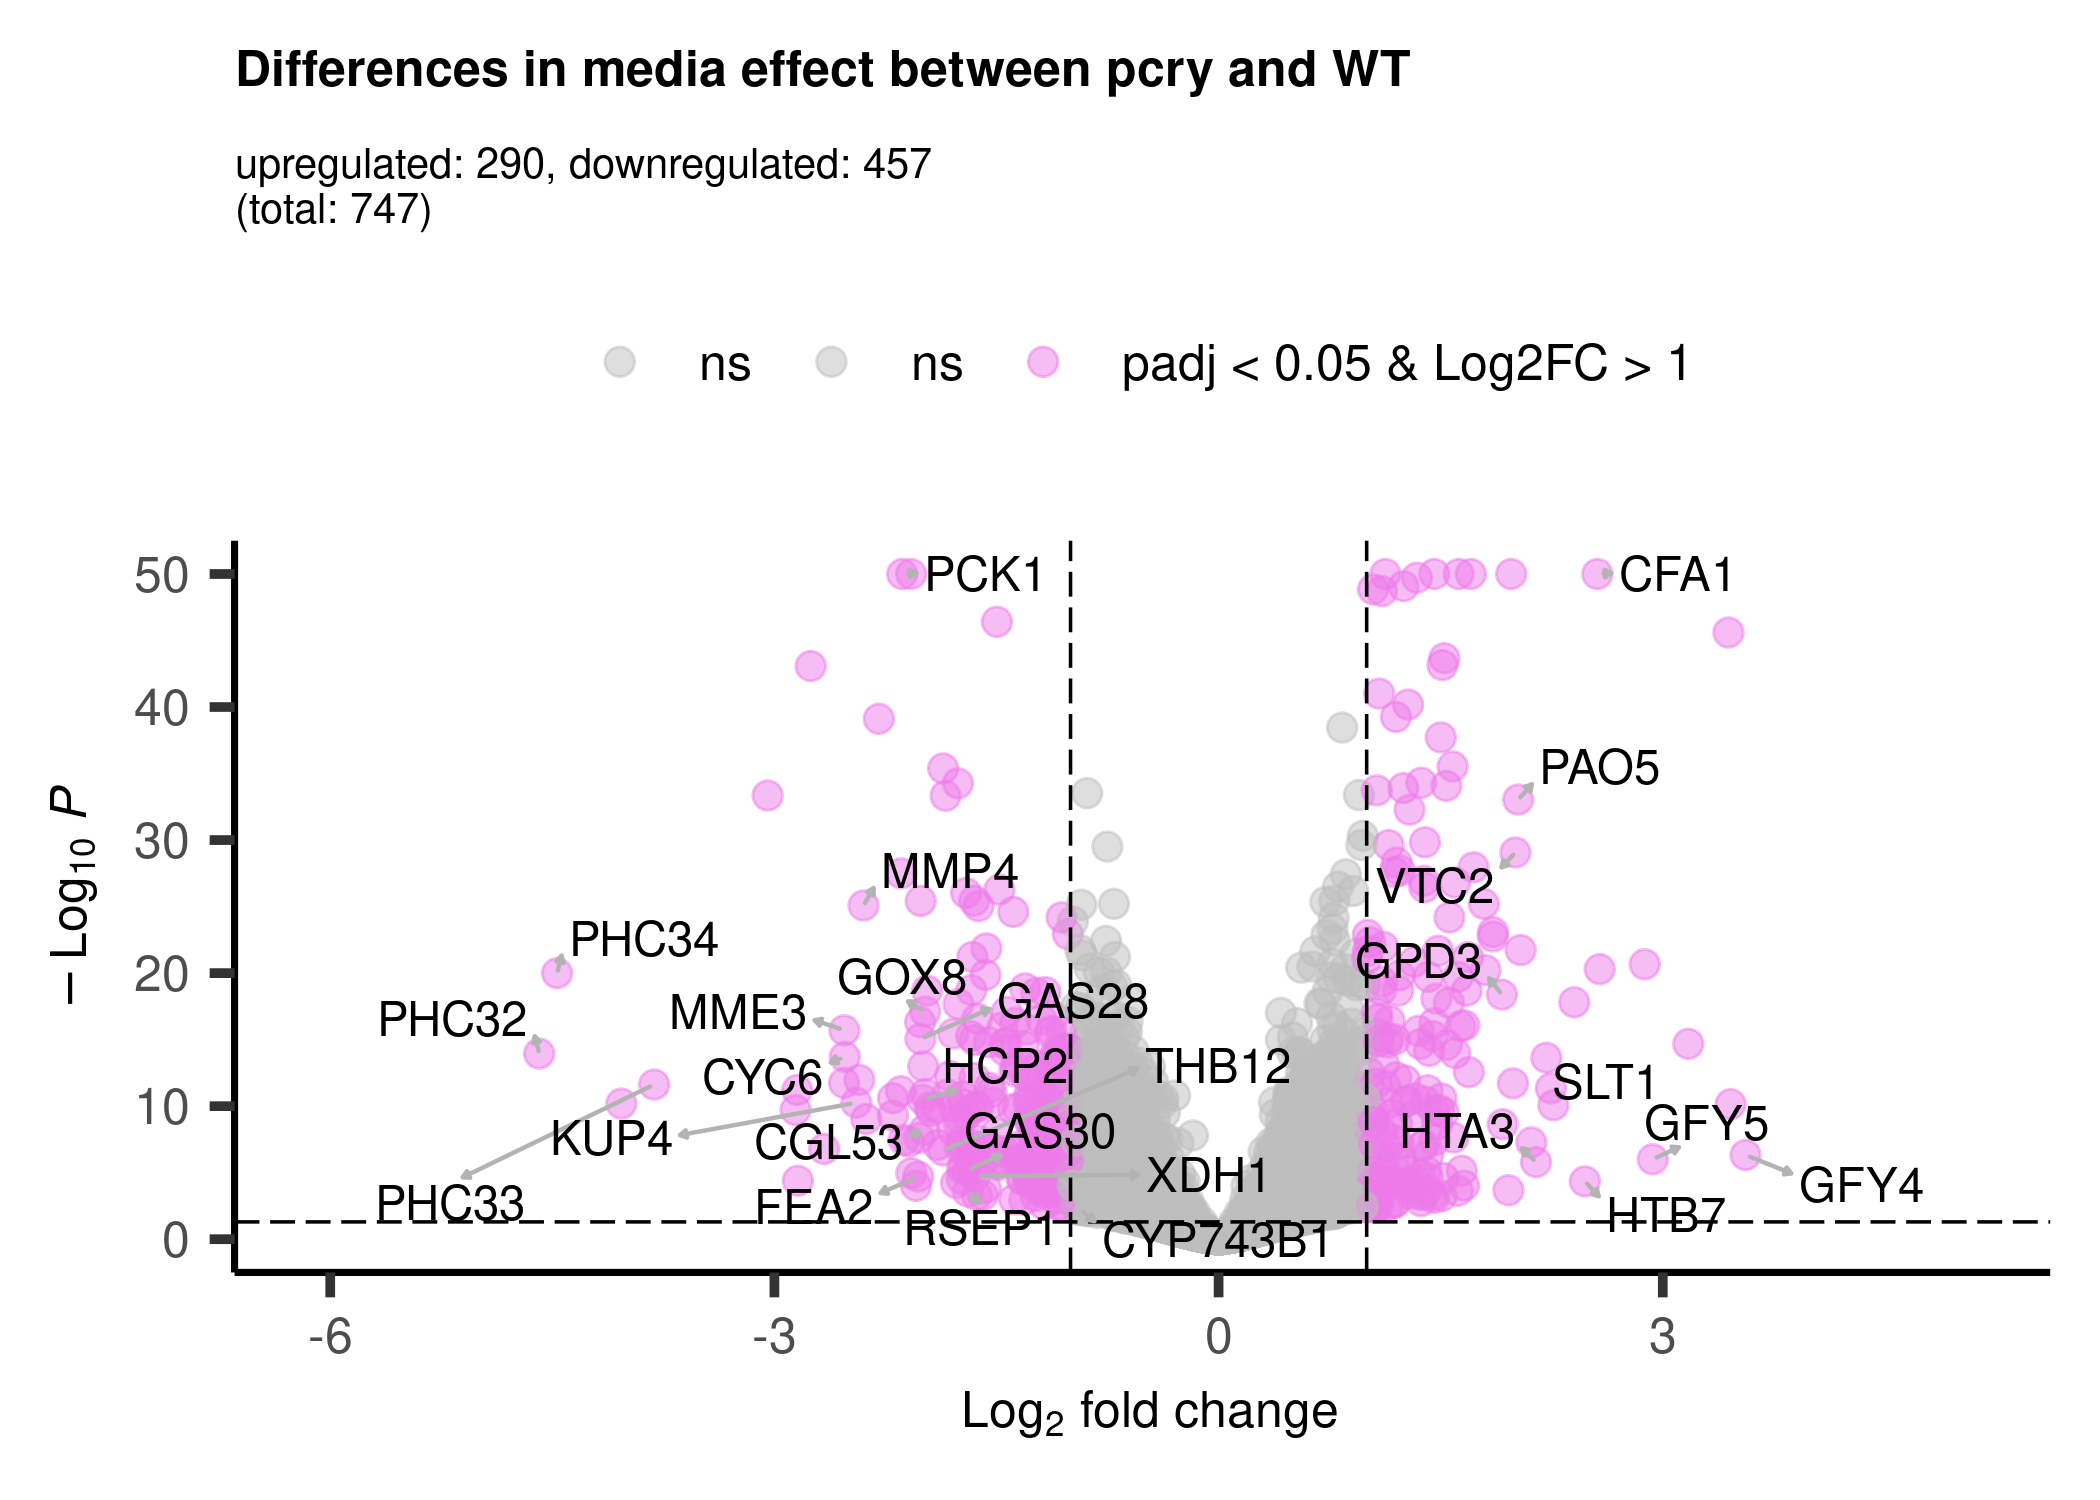
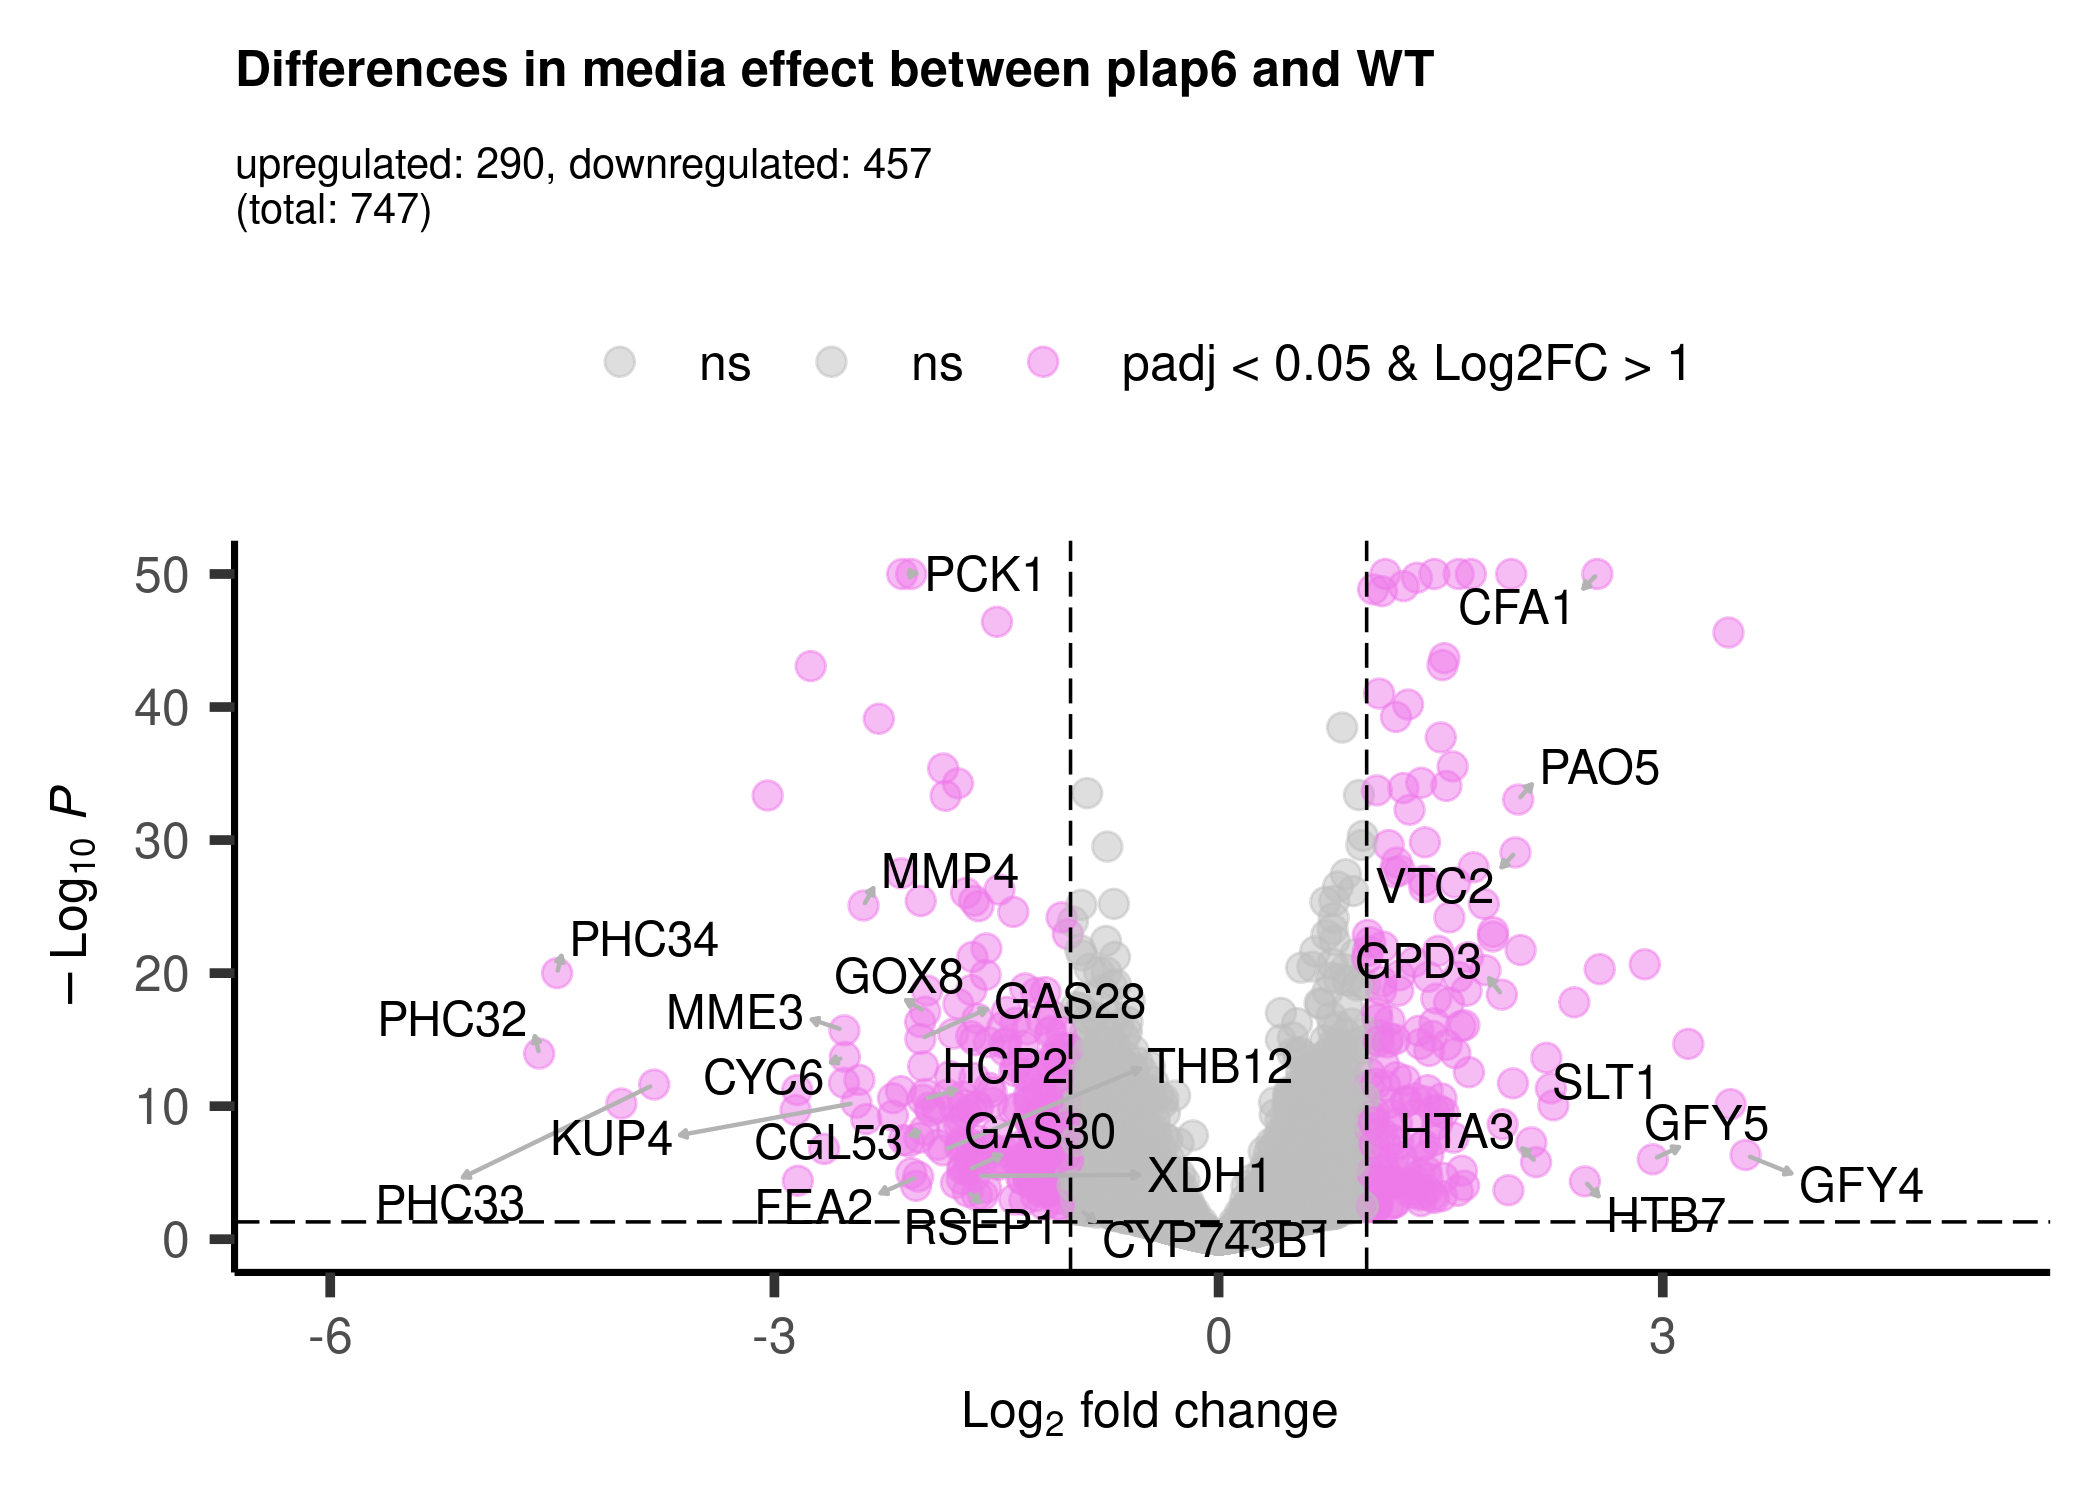
cross plot

diff --git a/2_data_dive/Readme.md b/2_data_dive/Readme.md
@@ -213,23 +213,23 @@
     contrast <- list(c("media_TAP_vs_HSM"))
     res_l[nres] <- getresults_SK(contrast = contrast, nres = nres)
 
-    nres <- "pcry_TAP.vs.HSM"
+    nres <- "plap6_TAP.vs.HSM"
     contrast <- list(c("media_TAP_vs_HSM","strainΔplap6.mediaTAP"))
     res_l[nres] <- getresults_SK(contrast = contrast, nres = nres)
 
 
     # Unterschiede zwischen WT und ko bei gleichem Medium
-    nres <- "HSM_pcry.vs.WT"
+    nres <- "HSM_plap6.vs.WT"
     contrast <- list(c("strain_Δplap6_vs_WT"))
     res_l[nres] <- getresults_SK(contrast = contrast, nres = nres)
 
-    nres <- "TAP_pcry.vs.WT"
+    nres <- "TAP_plap6.vs.WT"
     contrast <- list(c("strain_Δplap6_vs_WT","strainΔplap6.mediaTAP"))
     res_l[nres] <- getresults_SK(contrast = contrast, nres = nres)
 
 
     # Unterschiede im Medien-Effekt (interaction term)
-    nres <- "pcry_TAPvHSM.vs.WT_TAPvHSM"
+    nres <- "plap6_TAPvHSM.vs.WT_TAPvHSM"
     contrast <- list(c("strainΔplap6.mediaTAP"))
     res_l[nres] <- getresults_SK(contrast = contrast, nres = nres)
 
@@ -239,9 +239,9 @@
 
     print(names(res_l))
 
-    ## [1] "WT_TAP.vs.HSM"              "pcry_TAP.vs.HSM"           
-    ## [3] "HSM_pcry.vs.WT"             "TAP_pcry.vs.WT"            
-    ## [5] "pcry_TAPvHSM.vs.WT_TAPvHSM"
+    ## [1] "WT_TAP.vs.HSM"               "plap6_TAP.vs.HSM"           
+    ## [3] "HSM_plap6.vs.WT"             "TAP_plap6.vs.WT"            
+    ## [5] "plap6_TAPvHSM.vs.WT_TAPvHSM"
 
     ## Make deg & top lists:
     deg_list <- lapply(res_l,topgenes_f)
@@ -263,7 +263,7 @@
 
 
 
-    res_l$pcry_TAPvHSM.vs.WT_TAPvHSM["Cre01.g000150",]
+    res_l$plap6_TAPvHSM.vs.WT_TAPvHSM["Cre01.g000150",]
 
     ## log2 fold change (MLE): strainΔplap6.mediaTAP effect 
     ## Wald test p-value: strainΔplap6.mediaTAP effect 
@@ -275,15 +275,15 @@
     ##               <character>
     ## Cre01.g000150        ZRT2
 
-    plotMA(res_l$pcry_TAPvHSM.vs.WT_TAPvHSM, main = "Δplap6 vs. WT in TAP", ylim=c(-4,4))
+    plotMA(res_l$plap6_TAPvHSM.vs.WT_TAPvHSM, main = "Δplap6 vs. WT in TAP", ylim=c(-4,4))
 
 ![](Readme_files/figure-markdown_strict/make%20results2-1.png)
 
-    plotMA(res_ashr_list$pcry_TAPvHSM.vs.WT_TAPvHSM, main = "Δplap6 vs. WT in TAP", ylim=c(-4,4))
+    plotMA(res_ashr_list$plap6_TAPvHSM.vs.WT_TAPvHSM, main = "Δplap6 vs. WT in TAP", ylim=c(-4,4))
 
 ![](Readme_files/figure-markdown_strict/make%20results2-2.png)
 
-    summary(res_l$pcry_TAPvHSM.vs.WT_TAPvHSM)
+    summary(res_l$plap6_TAPvHSM.vs.WT_TAPvHSM)
 
     ## 
     ## out of 14617 with nonzero total read count
@@ -296,11 +296,11 @@
     ## [1] see 'cooksCutoff' argument of ?results
     ## [2] see 'independentFiltering' argument of ?results
 
-    res <- res_l$pcry_TAPvHSM.vs.WT_TAPvHSM
+    res <- res_l$plap6_TAPvHSM.vs.WT_TAPvHSM
 
 # 2.) Data Dive
 
-## Get gen names
+## Get gene names
 
     # Load data
     COQ3 <- "Cre10.g423750"
@@ -2365,7 +2365,7 @@ Hexaprenyldihydroxybenzoate methyltransferase
 
 ![](Readme_files/figure-markdown_strict/countsexamples-1.png)
 
-    g <- anno[str_detect(anno[["geneSymbol"]],"PCRY"),"gene_id"]
+    g <- anno[str_detect(anno[["geneSymbol"]],"PCRY1"),"gene_id"]
     plotCounts(dds, gene = g, intgroup = "condition", col=colData(dds)$genotype, main =anno[g,"geneSymbol"])
 
 ![](Readme_files/figure-markdown_strict/countsexamples-2.png)
@@ -3893,12 +3893,12 @@ TAP
 
     res_ashr_list %>% names()
 
-    ## [1] "WT_TAP.vs.HSM"              "pcry_TAP.vs.HSM"           
-    ## [3] "HSM_pcry.vs.WT"             "TAP_pcry.vs.WT"            
-    ## [5] "pcry_TAPvHSM.vs.WT_TAPvHSM"
+    ## [1] "WT_TAP.vs.HSM"               "plap6_TAP.vs.HSM"           
+    ## [3] "HSM_plap6.vs.WT"             "TAP_plap6.vs.WT"            
+    ## [5] "plap6_TAPvHSM.vs.WT_TAPvHSM"
 
-    res <- res_ashr_list$pcry_TAPvHSM.vs.WT_TAPvHSM
-    res_n <- res_l$pcry_TAPvHSM.vs.WT_TAPvHSM
+    res <- res_ashr_list$plap6_TAPvHSM.vs.WT_TAPvHSM
+    res_n <- res_l$plap6_TAPvHSM.vs.WT_TAPvHSM
 
     # of shrinked results
     total <- subset(res, padj< 0.05 & (log2FoldChange > 1 | log2FoldChange < -1 )) %>% nrow()
@@ -3951,11 +3951,11 @@ TAP
 
     volcano_dd <- EnhancedVolcano(res,
          lab = mcols(dds)[,"geneSymbol"],
-         selectLab = top_list$pcry_TAPvHSM.vs.WT_TAPvHSM[1:101,"symbol"],
+         selectLab = top_list$plap6_TAPvHSM.vs.WT_TAPvHSM[1:101,"symbol"],
         x = 'log2FoldChange',
         y = 'padj',
         col=c("grey","grey","grey","orchid2"),
-        title = "Differences in media effect between pcry and WT",
+        title = "Differences in media effect between plap6 and WT",
         titleLabSize = 12,
         subtitle = paste0("upregulated: ",up,", downregulated: ",down,"\n(total: ",total,")"),
     #    subtitle = {},
@@ -3983,7 +3983,7 @@ TAP
 
 ![](Readme_files/figure-markdown_strict/volcano2-1.png)
 
-    top <- top_list$pcry_TAPvHSM.vs.WT_TAPvHSM[1:101,"symbol"] %>% .[!is.na(.)]
+    top <- top_list$plap6_TAPvHSM.vs.WT_TAPvHSM[1:101,"symbol"] %>% .[!is.na(.)]
 
     # List TOP genes (with Symbol)
     anno[anno[anno$geneSymbol %in% top,"gene_id"],c("geneSymbol","previousIdentifiers","Description","previousIdentifiers","Description","Comments","TMHMM_transmembrane","TargetP","Predalgo","Flagellar_Proteome")] %>% kable() %>% kable_styling("striped", full_width = T) %>% scroll_box(height = "400px")
@@ -5475,7 +5475,7 @@ cytochrome b559 alpha subunit
 </tbody>
 </table>
 
-    top9 <- top_list$pcry_TAPvHSM.vs.WT_TAPvHSM[1:101,"symbol"] %>% .[!is.na(.)] %>% .[1:9]
+    top9 <- top_list$plap6_TAPvHSM.vs.WT_TAPvHSM[1:101,"symbol"] %>% .[!is.na(.)] %>% .[1:9]
 
     goi <- anno %>% .[.$geneSymbol %in% top9,]
 
@@ -5528,7 +5528,7 @@ cytochrome b559 alpha subunit
       scale_color_manual(values = "black") +
       geom_point(position = position_dodge(width = 0.75)) + 
       scale_color_manual(values = group.colors) +
-      labs(title = "TOP genes with different media effect (pcry vs. WT)") + 
+      labs(title = "TOP genes with different media effect (plap6 vs. WT)") + 
       theme_bw() +
       removeGrid(x=T, y=T) +
         geom_vline(xintercept=seq(1,length(levels(all_counts$Gene))-1,1)+.5,color="grey") +
@@ -6021,15 +6021,15 @@ associated with central pair projection C1b (PMID: 16030251).</td>
       scale_y_continuous(trans = "log2", limits = c(2,NA)) & plot_annotation(title = colData(dds)$experiment[1])
     gcounts_metabolic %>% print()
 
-![](Readme_files/figure-markdown_strict/unnamed-chunk-3-1.png)
+![](Readme_files/figure-markdown_strict/Counts-1.png)
 
     ggexport(gcounts_coqs, filename = paste(pubdir,"Counts_metabolic.pdf",sep="/"),width = 8.2, height = 4.7)
     ggsave(gcounts_coqs, filename = paste(pubdir,"Counts_metabolic.tiff",sep="/"),width = 8.2, height = 4.7)
 
 #### Volcano
 
-    res <- res_ashr_list$pcry_TAPvHSM.vs.WT_TAPvHSM[metabolic_genes$gene_id,]
-    res_n <- res_l$pcry_TAPvHSM.vs.WT_TAPvHSM[metabolic_genes$gene_id,]
+    res <- res_ashr_list$plap6_TAPvHSM.vs.WT_TAPvHSM[metabolic_genes$gene_id,]
+    res_n <- res_l$plap6_TAPvHSM.vs.WT_TAPvHSM[metabolic_genes$gene_id,]
 
     # of shrinked results
     total <- subset(res, padj< 0.05 & (log2FoldChange > 1 | log2FoldChange < -1 )) %>% nrow()
@@ -6075,11 +6075,11 @@ associated with central pair projection C1b (PMID: 16030251).</td>
 
     volcano_dd <- EnhancedVolcano(res,
          lab = metabolic_genes$geneSymbol,
-         selectLab = top_list$pcry_TAPvHSM.vs.WT_TAPvHSM[1:101,"symbol"],
+         selectLab = top_list$plap6_TAPvHSM.vs.WT_TAPvHSM[1:101,"symbol"],
         x = 'log2FoldChange',
         y = 'padj',
         col=c("grey","grey","grey","orchid2"),
-        title = "Differences in media effect between pcry and WT",
+        title = "Differences in media effect between plap6 and WT",
         titleLabSize = 12,
         subtitle = paste0("upregulated: ",up,", downregulated: ",down,"\n(total: ",total,")"),
     #    subtitle = {},
@@ -6105,7 +6105,7 @@ associated with central pair projection C1b (PMID: 16030251).</td>
     )
     volcano_dd
 
-![](Readme_files/figure-markdown_strict/unnamed-chunk-4-1.png)
+![](Readme_files/figure-markdown_strict/Volcano-1.png)
 
 #### Heatmap
 
@@ -6135,7 +6135,63 @@ associated with central pair projection C1b (PMID: 16030251).</td>
                    cluster_cols=TRUE, annotation_col=anno_col,
                    annotation_row=anno_row, annotation_colors = anno_colors)
 
-![](Readme_files/figure-markdown_strict/unnamed-chunk-5-1.png)
+![](Readme_files/figure-markdown_strict/Heatmap-1.png) \#### Cross Plot
+
+    res_l %>% names()
+
+    ## [1] "WT_TAP.vs.HSM"               "plap6_TAP.vs.HSM"           
+    ## [3] "HSM_plap6.vs.WT"             "TAP_plap6.vs.WT"            
+    ## [5] "plap6_TAPvHSM.vs.WT_TAPvHSM"
+
+    WT <- res_l$WT_TAP.vs.HSM %>% as.data.frame() %>% .[metabolic_genes$gene_id,c("log2FoldChange","symbol")]
+    plap6 <- res_l$plap6_TAP.vs.HSM %>% as.data.frame() %>% .[metabolic_genes$gene_id,c("log2FoldChange","symbol")]
+
+    df <- bind_cols(metabolic_genes, WT, plap6)
+    colnames(df)[7] <- "log2FC(WT)"
+    colnames(df)[9] <- "log2FC(plap6)"
+
+    cross <- ggplot(df, aes(x = `log2FC(WT)`, y = `log2FC(plap6)`, col=pathway)) +
+      geom_point() +
+      geom_text_repel(aes(label = df$geneSymbol), size=4) +
+      theme_bw() +
+      coord_fixed(ratio = 1, xlim = c(-4,4),ylim=c(-4,4)) +
+      geom_abline(col="grey") +
+      ggtitle("Acetate effect") +
+      theme(plot.title = element_text(hjust = 0.5))
+
+    goi <- metabolic_genes[c(5,10,11),]
+
+    l <- nrow(goi)
+    all_counts <- {}
+    for (i in 1:l){
+      d <-  plotCounts(dds, gene=goi[i,"gene_id"], intgroup=c("condition","strain","media"), col=col,main=res$symbol[i],returnData=TRUE)
+      d$Gene <- rep(goi[i,"geneSymbol"],length(rownames(d)))
+      d$sample <- rownames(d)
+      rownames(d) <- {}
+      all_counts <- bind_rows(all_counts,d)
+      }
+
+    max_val <- 1.0*max(all_counts$count)
+
+    all_counts$Gene <- factor(all_counts$Gene, levels = metabolic_genes$geneSymbol)
+
+
+    # Plot
+    counts <- gcounts_metabolic <- ggplot(all_counts, aes(x = Gene, y = count, col=condition)) +
+      geom_boxplot(fatten = 1) +
+      scale_fill_manual(values = "grey") +
+      scale_color_manual(values = "black") +
+      geom_point(position = position_dodge(width = 0.75)) + 
+      scale_color_manual(values = group.colors) +
+      labs(title = "Metabolic Genes") + 
+      theme_bw() +
+      removeGrid(x=T, y=T) +
+        geom_vline(xintercept=seq(1,length(levels(all_counts$Gene))-1,1)+.5,color="grey") +
+      scale_y_continuous(trans = "log2", limits = c(2,NA)) & plot_annotation(title = colData(dds)$experiment[1])
+
+    cross+counts
+
+![](Readme_files/figure-markdown_strict/Cross-1.png)
 
 # GO-terms
 
